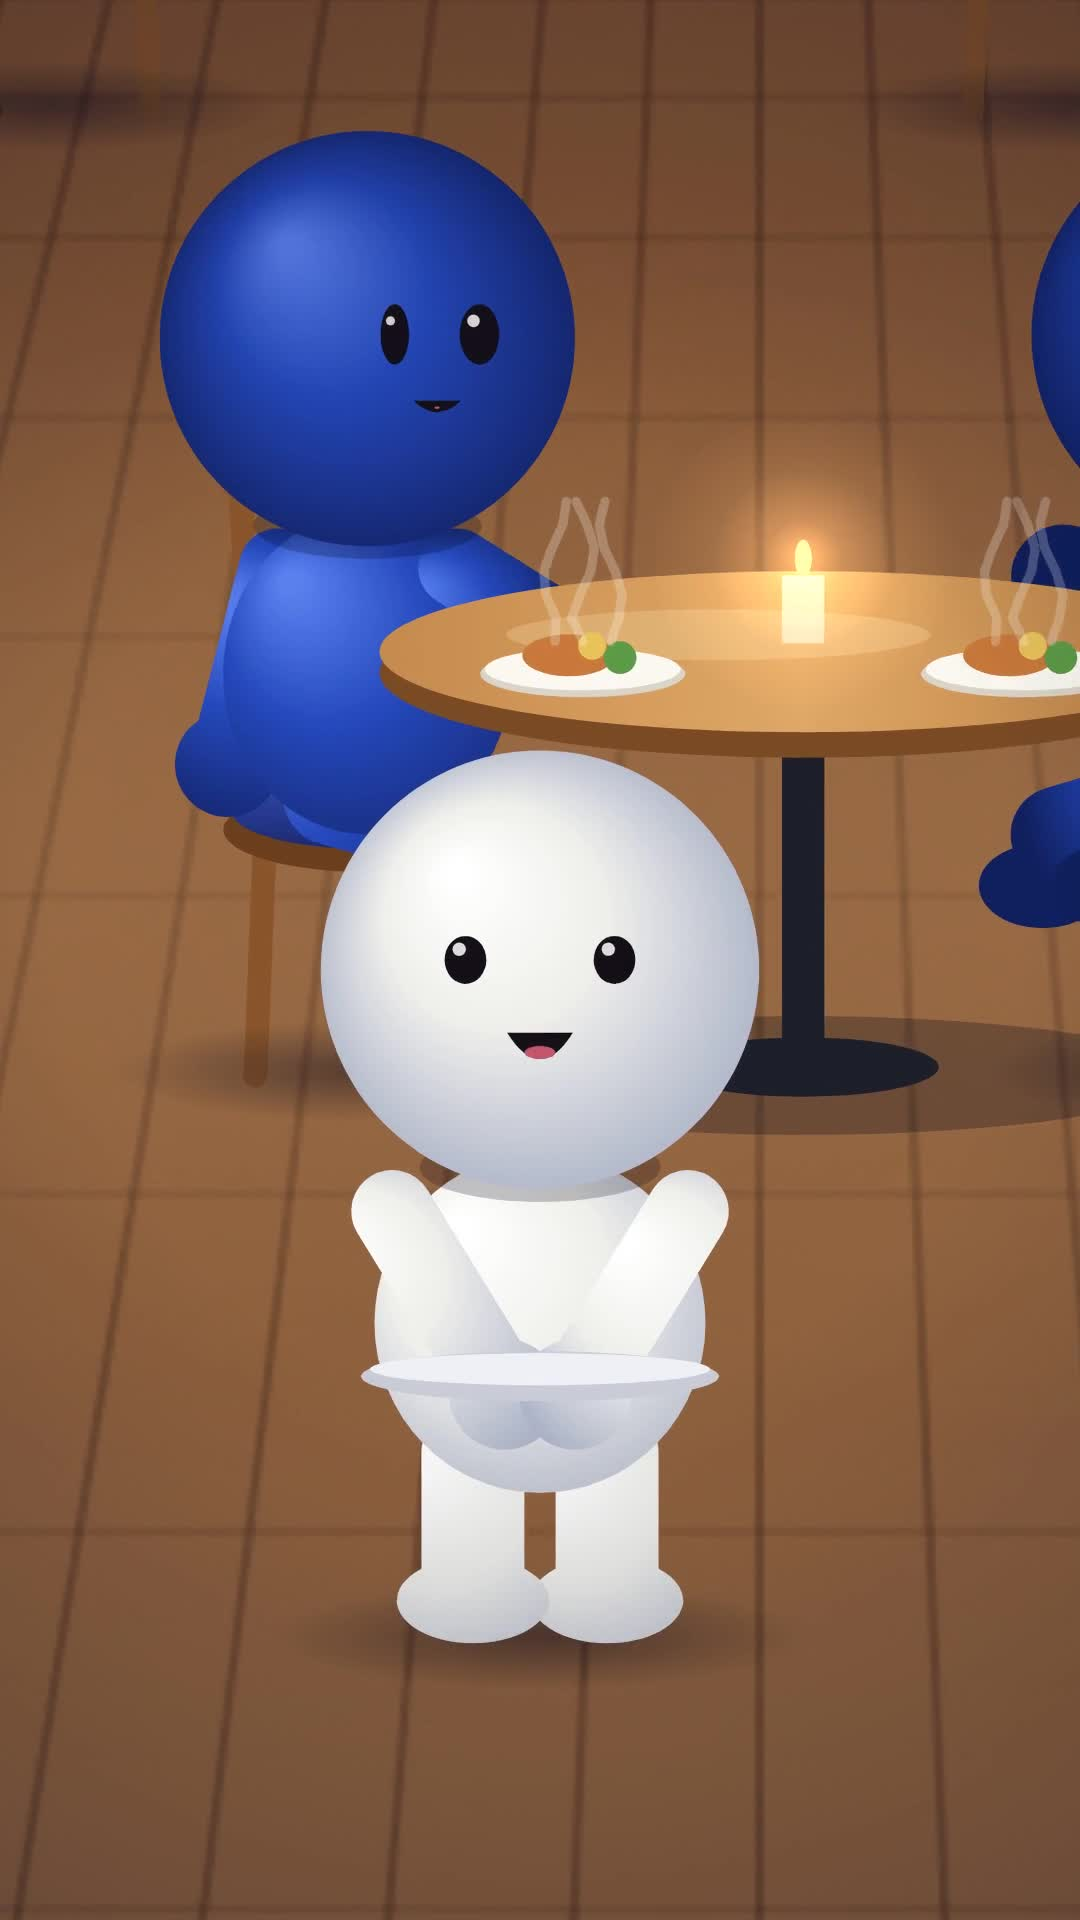
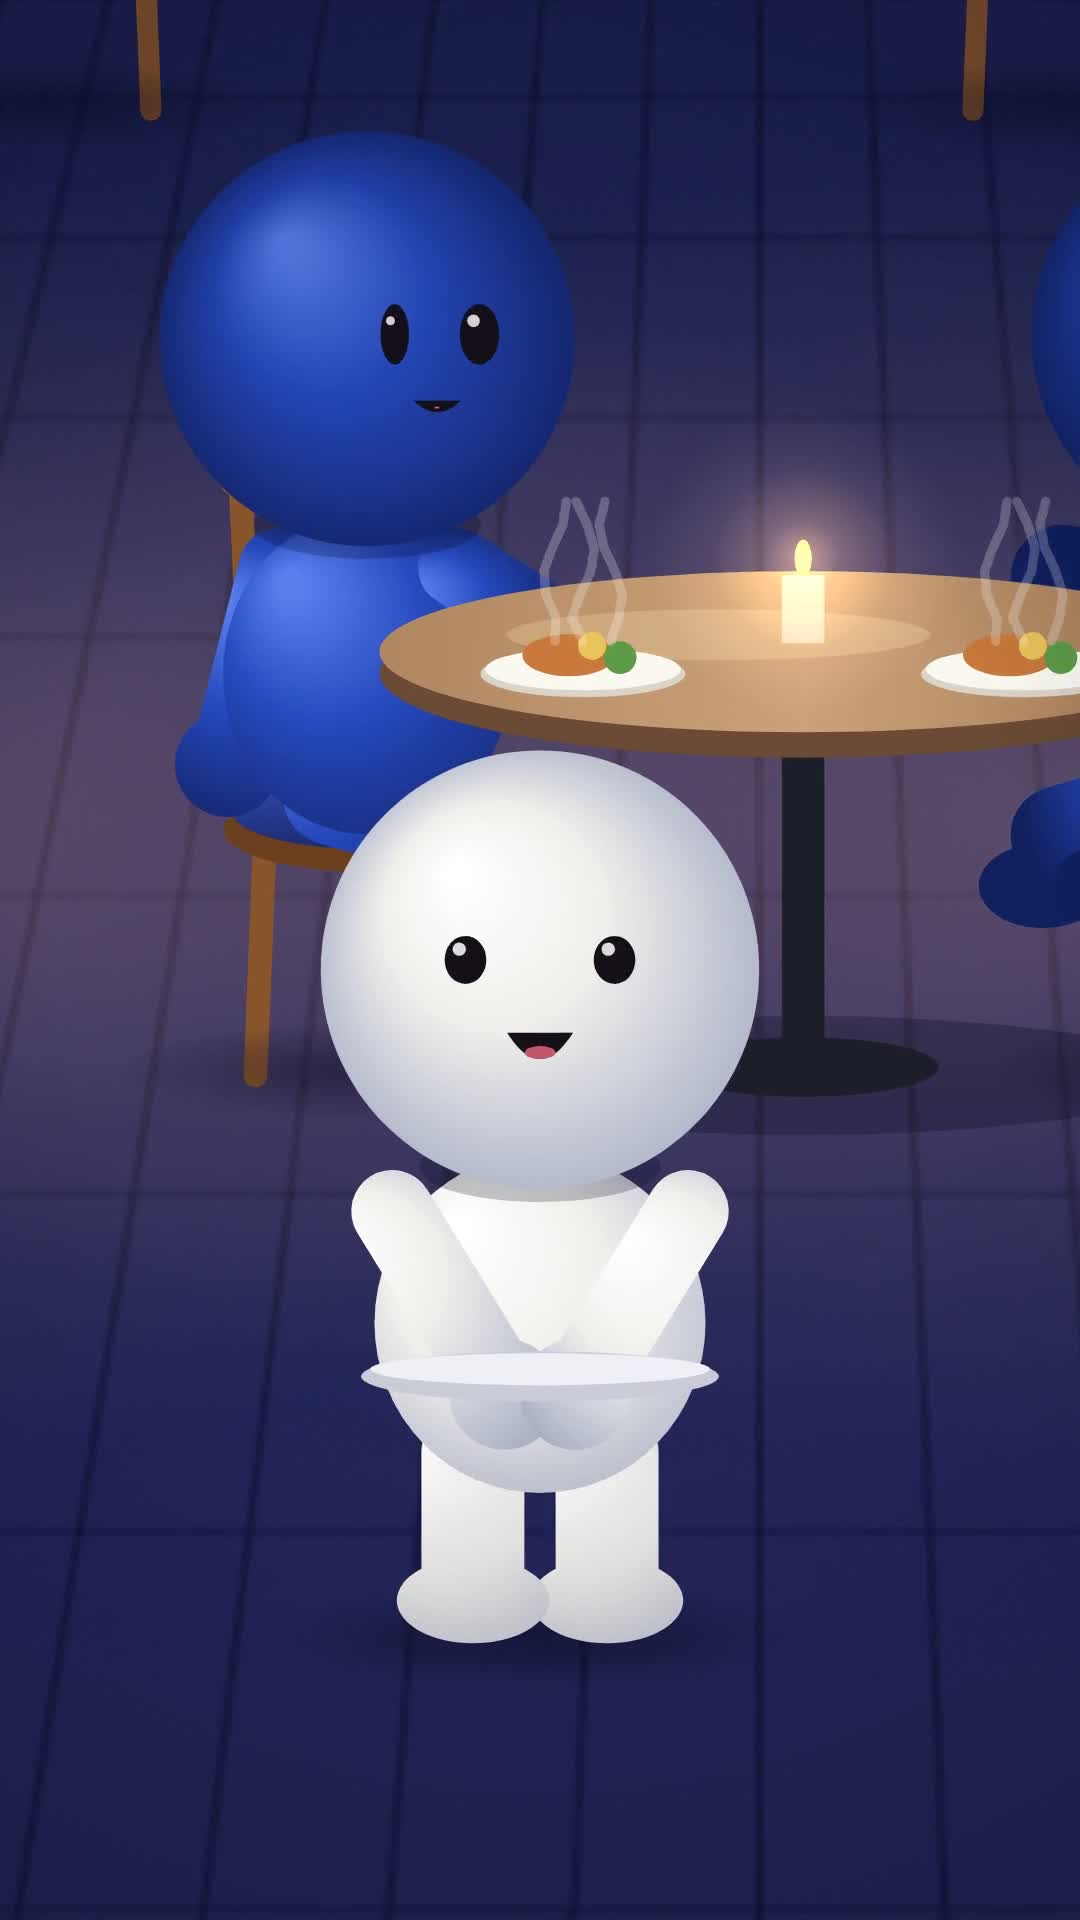
60-30-10 colour pass (navy / cream-wood / gold) and spring-based motion
Claude-Session: https://claude.ai/code/session_01VFoCBkEqq52BD2AArbSPEf

diff --git a/restaurant-nobody-entered/sets.js b/restaurant-nobody-entered/sets.js
@@ -103,13 +103,13 @@ export function interiorWall(lookName) {
   x.fillRect(w.x0, w.spring - 6, w.x1 - w.x0, 12);
   // floor: honey planks in perspective
   const vp = [750, 760];
-  x.fillStyle = lin(x, 0, IN.floor, 0, IN.H, [[0, '#a8682f'], [.5, '#c88a48'], [1, '#d99c58']]); x.fillRect(0, IN.floor, IN.W, IN.H - IN.floor);
-  for (let i = -30; i <= 30; i++) { const bx = 750 + i * 70; x.strokeStyle = 'rgba(70,35,10,.35)'; x.lineWidth = 2; x.beginPath(); x.moveTo(vp[0] + (bx - vp[0]) * (IN.floor - vp[1]) / (IN.H - vp[1]), IN.floor); x.lineTo(bx, IN.H); x.stroke(); }
-  for (let k = 0, yy = IN.floor + 14; yy < IN.H; k++, yy += 14 + k * 9) { x.strokeStyle = 'rgba(70,35,10,.18)'; x.lineWidth = 1.5; x.beginPath(); x.moveTo(0, yy); x.lineTo(IN.W, yy); x.stroke(); }
-  for (const [px] of IN.pendants) { x.fillStyle = rad(x, px, 1560, 10, 420, [[0, `rgba(255,190,110,${.32 * L.lampK})`], [1, 'rgba(255,190,110,0)']]); x.save(); x.translate(px, 1560); x.scale(1, .35); x.translate(-px, -1560); x.fillRect(px - 450, 1100, 900, 900); x.restore(); }
+  x.fillStyle = lin(x, 0, IN.floor, 0, IN.H, [[0, '#24285a'], [.5, '#2e3066'], [1, '#383870']]); x.fillRect(0, IN.floor, IN.W, IN.H - IN.floor);
+  for (let i = -30; i <= 30; i++) { const bx = 750 + i * 70; x.strokeStyle = 'rgba(8,10,40,.45)'; x.lineWidth = 2; x.beginPath(); x.moveTo(vp[0] + (bx - vp[0]) * (IN.floor - vp[1]) / (IN.H - vp[1]), IN.floor); x.lineTo(bx, IN.H); x.stroke(); }
+  for (let k = 0, yy = IN.floor + 14; yy < IN.H; k++, yy += 14 + k * 9) { x.strokeStyle = 'rgba(8,10,40,.3)'; x.lineWidth = 1.5; x.beginPath(); x.moveTo(0, yy); x.lineTo(IN.W, yy); x.stroke(); }
+  x.globalCompositeOperation = 'lighter'; for (const [px] of IN.pendants) { x.fillStyle = rad(x, px, 1560, 10, 440, [[0, `rgba(255,170,90,${.34 * L.lampK})`], [.6, `rgba(255,170,90,${.1 * L.lampK})`], [1, 'rgba(255,170,90,0)']]); x.save(); x.translate(px, 1560); x.scale(1, .35); x.translate(-px, -1560); x.fillRect(px - 450, 1100, 900, 900); x.restore(); } x.globalCompositeOperation = 'source-over';
   // plants
   const plant = (px, py, s) => { x.fillStyle = lin(x, 0, py - 70 * s, 0, py, [[0, '#2f3f86'], [1, '#1c2658']]); x.beginPath(); x.moveTo(px - 45 * s, py - 80 * s); x.lineTo(px + 45 * s, py - 80 * s); x.lineTo(px + 35 * s, py); x.lineTo(px - 35 * s, py); x.fill();
-    for (let i = 0; i < 14; i++) { const a = -Math.PI / 2 + (R() - .5) * 2.4, l = (90 + R() * 90) * s; x.fillStyle = ['#3f7f3a', '#5b9a45', '#2f6a33'][i % 3]; x.save(); x.translate(px, py - 80 * s); x.rotate(a + Math.PI / 2); x.beginPath(); x.ellipse(0, -l / 2, 16 * s, l / 2, 0, 0, 7); x.fill(); x.restore(); } };
+    for (let i = 0; i < 14; i++) { const a = -Math.PI / 2 + (R() - .5) * 2.4, l = (90 + R() * 90) * s; x.fillStyle = ['#2e5e5a', '#3d7068', '#244a4c'][i % 3]; x.save(); x.translate(px, py - 80 * s); x.rotate(a + Math.PI / 2); x.beginPath(); x.ellipse(0, -l / 2, 16 * s, l / 2, 0, 0, 7); x.fill(); x.restore(); } };
   plant(60, IN.floor + 40, 1.0);
 
   // cool tint for the morning, deeper navy at night
@@ -125,7 +125,7 @@ export function interiorWall(lookName) {
 export function interiorOutside(lookName) {
   const L = LOOK[lookName], R = mulberry(9), [c, x] = cnv(IN.W, IN.H);
   x.fillStyle = lin(x, 0, 200, 0, 1240, [[0, L.sky[0]], [.6, L.sky[1]], [1, L.sky[2]]]); x.fillRect(0, 0, IN.W, IN.H);
-  const cols = ['#d9c39a', '#c9a465', '#d7b3a0', '#cfc4a6'];
+  const cols = ['#3d4a88', '#34407a', '#46529a', '#2f3a72'];
   for (let bx = -40, i = 0; bx < IN.W; i++) { const bw = 240 + R() * 140, top = 470 + R() * 160, col = cols[i % 4];
     x.fillStyle = col; x.fillRect(bx, top, bw, 1240 - top); x.fillStyle = `rgba(10,15,60,${.25 + .45 * L.night})`; x.fillRect(bx, top, bw, 1240 - top);
     windowsGrid(x, R, bx + 10, top + 30, bw - 20, 1180 - top, 3, 4, col, L.outLit); x.fillStyle = `rgba(10,15,60,${.15 * L.night})`; x.fillRect(bx, top, bw, 1240 - top);
@@ -170,7 +170,7 @@ export function exteriorStreet(lookName) {
     windowsGrid(x, RR, x0 + 20, top + 50, x1 - x0 - 40, 1140 - top - 60, cols, 4, col, L.outLit);
     x.fillStyle = 'rgba(0,0,0,.18)'; x.fillRect(x0, 1140, x1 - x0, EX.ground - 1140);
     for (let i = 0; i < cols; i++) { const sx = x0 + 30 + i * (x1 - x0 - 60) / cols; x.fillStyle = '#1a2350'; x.fillRect(sx + 20, 1300, (x1 - x0 - 60) / cols - 40, 300); x.fillStyle = `rgba(255,190,110,${RR() < .5 ? .5 * L.outLit : 0})`; x.fillRect(sx + 26, 1306, (x1 - x0 - 60) / cols - 52, 288); } };
-  bld(-300, 560, 380, '#d6ad68', 3, 31); bld(1320, 2100, 270, '#dcb6a0', 4, 37);
+  bld(-300, 560, 380, '#4a5694', 3, 31); bld(1320, 2100, 270, '#3e4a8a', 4, 37);
   // the restaurant building
   x.fillStyle = lin(x, 0, 300, 0, EX.ground, [[0, '#efdcb0'], [1, '#e2c995']]); x.fillRect(F.x0, 300, F.x1 - F.x0, EX.ground - 300);
   x.fillStyle = '#f7ecd2'; x.fillRect(F.x0 - 16, 286, F.x1 - F.x0 + 32, 26); x.fillRect(F.x0 - 10, 1120, F.x1 - F.x0 + 20, 22);
@@ -191,7 +191,7 @@ export function exteriorStreet(lookName) {
   x.fillStyle = 'rgba(0,0,20,.25)'; x.fillRect(ax0, ay1 + 18, ax1 - ax0, 30);
   // potted trees
   const tree = (tx) => { x.fillStyle = '#26347a'; x.beginPath(); x.moveTo(tx - 34, 1600); x.lineTo(tx + 34, 1600); x.lineTo(tx + 26, 1666); x.lineTo(tx - 26, 1666); x.fill(); x.fillStyle = '#5a4330'; x.fillRect(tx - 4, 1440, 8, 160);
-    for (let i = 0; i < 16; i++) { x.fillStyle = ['#3f6f3a', '#57894a', '#6e9a4f'][i % 3]; x.beginPath(); x.arc(tx + (R() - .5) * 90, 1420 + (R() - .5) * 90, 26 + R() * 16, 0, 7); x.fill(); } };
+    for (let i = 0; i < 16; i++) { x.fillStyle = ['#2e5e5a', '#3d7068', '#4a7d72'][i % 3]; x.beginPath(); x.arc(tx + (R() - .5) * 90, 1420 + (R() - .5) * 90, 26 + R() * 16, 0, 7); x.fill(); } };
   tree(588); tree(1318);
   // the sign above the awning
   { const sx0 = 640, sx1 = 1240, sy0 = 985, sy1 = 1105;
@@ -206,7 +206,7 @@ export function exteriorStreet(lookName) {
   // lanterns by the door
   for (const [lx, ly] of EX.lanterns) { x.fillStyle = '#151826'; x.fillRect(lx - 3, ly - 50, 6, 20); x.fillRect(lx - 20, ly - 34, 40, 8); x.fillStyle = '#ffd796'; x.fillRect(lx - 14, ly - 26, 28, 40); x.fillStyle = '#151826'; x.fillRect(lx - 16, ly + 14, 32, 6); }
   // pavement, kerb, road
-  x.fillStyle = lin(x, 0, EX.ground, 0, 1790, [[0, '#6e7496'], [1, '#5d6386']]); x.fillRect(-300, EX.ground, 2400, 130);
+  x.fillStyle = lin(x, 0, EX.ground, 0, 1790, [[0, '#3c4272'], [1, '#323864']]); x.fillRect(-300, EX.ground, 2400, 130);
   for (let px = -300; px < 2100; px += 120) { x.strokeStyle = 'rgba(20,25,60,.35)'; x.lineWidth = 2; x.beginPath(); x.moveTo(px, EX.ground); x.lineTo(px - 20, 1790); x.stroke(); }
   x.fillStyle = '#9095b0'; x.fillRect(-300, 1784, 2400, 16); x.fillStyle = '#2b3052'; x.fillRect(-300, 1800, 2400, 700);
   cobbles(x, R, 1806, 2500, -300, 2100, L.night > .5);
@@ -237,7 +237,7 @@ export function homeSet(lookName) {
   x.fillStyle = lin(x, 0, 0, 0, HOME.floor, [[0, night ? '#151d4a' : '#2a3a7a'], [1, night ? '#24306a' : '#3d4f92']]); x.fillRect(0, 0, 1500, HOME.floor);
   x.fillStyle = 'rgba(255,255,255,.035)'; for (let yy = 40; yy < HOME.floor; yy += 80) for (let xx = (yy / 80 % 2) * 40; xx < 1500; xx += 80) { x.beginPath(); x.arc(xx, yy, 6, 0, 7); x.fill(); }
   x.fillStyle = '#e6d6b2'; x.fillRect(0, HOME.floor - 40, 1500, 40);
-  x.fillStyle = lin(x, 0, HOME.floor, 0, 2500, [[0, '#7a4a24'], [1, '#a8682f']]); x.fillRect(0, HOME.floor, 1500, 1000);
+  x.fillStyle = lin(x, 0, HOME.floor, 0, 2500, [[0, '#24285a'], [1, '#34356c']]); x.fillRect(0, HOME.floor, 1500, 1000);
   for (let yy = HOME.floor + 20, k = 0; yy < 2500; k++, yy += 20 + k * 8) { x.fillStyle = 'rgba(40,20,5,.25)'; x.fillRect(0, yy, 1500, 2); }
   // window with the sky
   x.fillStyle = '#e6d6b2'; x.fillRect(w[0] - 24, w[2] - 24, w[1] - w[0] + 48, w[3] - w[2] + 48);
@@ -276,8 +276,8 @@ export function blanket(x, a, b, sitUp) {   // the blanket over the sleeper (dra
 export const KIT = { counterTop: 1385, board: [630, 810], stove: [1060, 1340], pot: [1200, 1220] };
 export function kitchenSet() {
   const R = mulberry(23), [c, x] = cnv(1500, 2500);
-  x.fillStyle = '#efe9dc'; x.fillRect(0, 0, 1500, 1500);
-  for (let yy = 0; yy < 1500; yy += 60) for (let xx = (yy / 60 % 2) * 30; xx < 1500; xx += 60) { x.strokeStyle = 'rgba(120,130,170,.25)'; x.lineWidth = 2; x.strokeRect(xx, yy, 60, 60); if (R() < .08) { x.fillStyle = 'rgba(40,70,170,.35)'; x.fillRect(xx + 4, yy + 4, 52, 52); } }
+  x.fillStyle = '#26326e'; x.fillRect(0, 0, 1500, 1500);
+  for (let yy = 0; yy < 1500; yy += 60) for (let xx = (yy / 60 % 2) * 30; xx < 1500; xx += 60) { x.strokeStyle = 'rgba(230,220,195,.22)'; x.lineWidth = 2; x.strokeRect(xx, yy, 60, 60); if (R() < .06) { x.fillStyle = 'rgba(232,190,110,.35)'; x.fillRect(xx + 4, yy + 4, 52, 52); } }
   x.fillStyle = lin(x, 0, 0, 0, 1500, [[0, 'rgba(255,190,110,.0)'], [1, 'rgba(255,190,110,.18)']]); x.fillRect(0, 0, 1500, 1500);
   // shelves with jars and pans
   for (const sy of [760, 980]) { x.fillStyle = '#6b4526'; x.fillRect(120, sy, 760, 18);
@@ -287,6 +287,6 @@ export function kitchenSet() {
   x.fillStyle = '#2a2a33'; x.fillRect(1050, 1240, 300, 30);
   x.fillStyle = lin(x, 1120, 0, 1280, 0, [[0, '#6a7080'], [.5, '#b8bdc8'], [1, '#5a6070']]); x.beginPath(); x.roundRect(1120, 1140, 160, 100, 10); x.fill(); x.fillStyle = '#4a5060'; x.fillRect(1110, 1132, 180, 14);
   x.fillStyle = 'rgba(255,120,40,.6)'; for (let i = 0; i < 5; i++) { x.beginPath(); x.ellipse(1140 + i * 30, 1238, 10, 6, 0, 0, 7); x.fill(); }
-  x.fillStyle = lin(x, 0, 1500, 0, 2500, [[0, '#7a4a24'], [1, '#a8682f']]); x.fillRect(0, 1500, 1500, 1000);
+  x.fillStyle = lin(x, 0, 1500, 0, 2500, [[0, '#24285a'], [1, '#34356c']]); x.fillRect(0, 1500, 1500, 1000);
   return c;
 }

diff --git a/restaurant-nobody-entered/story.js b/restaurant-nobody-entered/story.js
@@ -40,6 +40,12 @@ const handleIn = op => [lerp(390, 390 - 240 * Math.cos(op * 1.3), .85), 1250];
 const handleEx = op => [lerp(640, 640 + 170 * Math.cos(op * 1.25), .86), 1590];
 
 const V = keys => track(keys);
+// a spring like Motion's { type: 'spring', visualDuration, bounce }: 0 → 1 over time τ, overshooting by 'bounce'
+export function sp(tau, d = .4, b = .2) {
+  if (tau <= 0) return 0; const z = Math.max(.05, 1 - b);
+  if (z >= .999) { const w = 4.7 / d; return 1 - Math.exp(-w * tau) * (1 + w * tau); }
+  const wd = Math.PI / d, w0 = wd / Math.sqrt(1 - z * z); return 1 - Math.exp(-z * w0 * tau) * (Math.cos(wd * tau) + z * w0 / wd * Math.sin(wd * tau));
+}
 function blinkAt(t, seed) { const per = 2.6 + hash(seed) * 1.8, ph = (t + seed * 3.7) % per; return ph < .14 ? Math.sin(ph / .14 * Math.PI) : 0; }
 const idle = (t, seed, o = {}) => ({ bob: Math.sin(t * 2.2 + seed) * .006, blink: blinkAt(t, seed), ...o });
 // walk along a path of points at an even pace (eased at both ends)
@@ -49,7 +55,8 @@ function route(t, t0, t1, pts, inside = true, stride = 58) {
   let acc = 0, i = 0; while (i < L.length - 1 && acc + L[i] < e) acc += L[i++];
   const k = L[i] ? (e - acc) / L[i] : 1, A = pts[i], B = pts[i + 1], x = lerp(A[0], B[0], clamp(k)), y = lerp(A[1], B[1], clamp(k));
   const dx = B[0] - A[0], dy = B[1] - A[1], d = Math.hypot(dx, dy) || 1;
-  return { x, y, s: inside ? sOf(y) : 1, f: clamp(dx / d * 1.1, -.95, .95), back: dy < -Math.abs(dx) * .7, phi: e / stride * Math.PI, walk: moving ? Math.min(1, Math.sin(u * Math.PI) * 2.2) : 0 };
+  const st = t - t1, settle = st > 0 && st < .5 ? Math.sin(st * 20) * Math.exp(-st * 9) * .07 : 0;
+  return { x, y, s: inside ? sOf(y) : 1, f: clamp(dx / d * 1.1, -.95, .95), back: dy < -Math.abs(dx) * .7, phi: e / stride * Math.PI, walk: moving ? Math.min(1, Math.sin(u * Math.PI) * 2.2) : 0, squash: settle };
 }
 const walk = (t, t0, t1, A, B, inside = true) => route(t, t0, t1, [A, B], inside);
 function diner(t, id, i, skin, seed, mode = 'eat') {
@@ -138,14 +145,15 @@ function day2(t) {
 function doorOpens(t) {
   const [sx, sy, , s] = seatPos('A', 1), turn = ss(seg(t, 22.7, 23.0));
   const ow = { id: 'owner', skin: OW, x: sx, y: sy, s, f: lerp(-.75, -.95, turn), sit: 1, ...idle(t, 1), sad: 1 - turn, o: turn * (1 - ss(seg(t, 24.6, 25.4))), smile: .4 * ss(seg(t, 25.0, 25.8)), chin: turn < .5 ? 'L' : null, armL: .3, armR: .3, look: turn ? -.2 : .5 };
-  const door = ss(seg(t, 22.6, 23.15)) * (1 - ss(seg(t, 24.5, 25.5)));
+  const door = sp(t - 22.6, .45, .25) * (1 - sp(t - 24.5, .6, .15));
   const g = walk(t, 23.1, 24.3, [262, 1372], [470, 1462]);
   if (t < 23.1) Object.assign(g, { x: 262, y: 1372, s: sOf(1372), f: .1, handR: handleIn(door) });
   if (t >= 24.3) { const ph = seg(t, 24.35, 25.2); g.f = Math.sin(ph * Math.PI * 2) * .6; if (t > 25.2) g.f = lerp(0, .8, ss(seg(t, 25.2, 25.6))); g.back = false; }
   Object.assign(g, { id: 'guest', skin: 'blue1', vis: t > 22.62, ...idle(t, 2), o: .4 * ss(seg(t, 24.3, 24.6)) * (1 - ss(seg(t, 25.3, 25.7))), smile: .4 * ss(seg(t, 25.4, 25.9)) });
   let cam = V([[21, [610, 1262, 1.12]], [22.75, [620, 1265, 1.15]]])(t);
-  if (t >= 22.8 && t < 23.35) cam = V([[22.8, [620, 1265, 1.15]], [22.98, [995, 1290, 3.1]], [23.35, [995, 1292, 3.25]]])(t);    // snap zoom: his face
-  else if (t >= 23.35) cam = V([[23.35, [995, 1292, 3.25]], [23.6, [360, 1262, 1.75]], [26.1, [420, 1272, 1.5]]])(t);            // whip to the door
+  const mix3 = (a, b, k) => [lerp(a[0], b[0], k), lerp(a[1], b[1], k), lerp(a[2], b[2], k)];
+  if (t >= 22.8 && t < 23.35) cam = mix3([620, 1265, 1.15], [995, 1292, 3.15], sp(t - 22.8, .2, .3));                          // snap zoom: his face
+  else if (t >= 23.35) { const w = mix3([995, 1292, 3.15], [360, 1262, 1.75], sp(t - 23.35, .25, .1)); cam = t < 23.9 ? w : V([[23.9, w], [26.1, [420, 1272, 1.5]]])(t); }   // whip to the door
   return { set: 'in', look: 'night', cam, shake: t > 22.75 && t < 22.98 ? (22.98 - t) * 40 : 0, chars: [ow, g], items: [cupItem('A', 1), jarOnA(.08)], door, rain: 1, drops: .6, lamps: .95, plaque: 1, calendar: 2 };
 }
 // —— 6: welcomed like a hundred guests: a handshake, the best seat (he pulls it from behind), a menu ——
@@ -153,7 +161,7 @@ function welcome(t) {
   const [ox, oy, , os] = seatPos('A', 1), [gx, gy, , gs] = seatPos('A', 0), gStart = [470, 1462], meet = [548, 1462], chairBack = [gx - .15 * BASE_H * gs, gy - .7 * BASE_H * gs];
   const pull = 30 * (ss(seg(t, 29.05, 29.45)) - ss(seg(t, 29.95, 30.35))), holdAt = [802, 1372], behind = [930, 1372];
   let ow;
-  if (t < 26.6) { const u = seg(t, 26.1, 26.55); ow = { x: ox, y: oy, s: os, f: -.85, sit: 1 - ss(u), bob: Math.sin(u * Math.PI) * .08, o: 1 - ss(seg(t, 26.2, 26.5)), smile: ss(seg(t, 26.25, 26.55)) }; }
+  if (t < 26.6) { const u = seg(t, 26.18, 26.55), crouch = t < 26.18 ? Math.sin(seg(t, 26.1, 26.18) * Math.PI) * .1 : 0; ow = { x: ox, y: oy, s: os, f: -.85, sit: 1 - sp(t - 26.18, .25, .3), bob: Math.sin(u * Math.PI) * .1, squash: crouch - .06 * Math.sin(u * Math.PI), o: 1 - ss(seg(t, 26.2, 26.5)), smile: ss(seg(t, 26.25, 26.55)) }; }
   else if (t < 27.4) ow = { ...route(t, 26.6, 27.4, [[ox, oy + 32], [700, 1462], meet]), smile: 1 };
   else if (t < 28.35) { const sh = Math.sin((t - 27.4) * Math.PI * 2 / .3) * 7 * (t < 28.2 ? 1 : 0); ow = { x: meet[0], y: meet[1], s: sOf(meet[1]), f: -.75, smile: 1, handL: [510, 1390 + sh], armR: .2 }; }
   else if (t < 29.0) ow = { ...route(t, 28.35, 29.0, [meet, [700, 1452], [705, 1385], holdAt]), smile: 1 };
@@ -188,7 +196,7 @@ function seen(t) {
   const y = { id: 'passer', ...walk(t, 31.5, 33.6, [140, 1722], [1340, 1722], false), skin: 'blue2', ...idle(t, 3) };
   if (t >= 33.6) {
     const wob = Math.sin(seg(t, 33.6, 34.0) * Math.PI * 2) * .05 * (1 - seg(t, 33.6, 34.0));
-    Object.assign(y, { f: lerp(.9, -.7, ss(seg(t, 33.8, 34.3))), lean: wob, o: ss(seg(t, 34.3, 34.5)) * (1 - ss(seg(t, 35.4, 35.8))), smile: .7 * ss(seg(t, 35.5, 36.0)), headDX: -.02 * ss(seg(t, 34.6, 35.4)), bang: t > 34.4 && t < 35.6 ? Math.min(1, (t - 34.4) / .25) : 0 });
+    Object.assign(y, { f: lerp(.9, -.7, ss(seg(t, 33.8, 34.3))), lean: wob, o: ss(seg(t, 34.3, 34.5)) * (1 - ss(seg(t, 35.4, 35.8))), smile: .7 * ss(seg(t, 35.5, 36.0)), headDX: -.02 * ss(seg(t, 34.6, 35.4)), bang: t > 34.4 && t < 35.6 ? Math.max(.01, sp(t - 34.4, .22, .55)) : 0 });
     if (t > 36.0) Object.assign(y, walk(t, 36.0, 36.9, [1340, 1722], [1000, 1722], false));
   }
   let ow, pl;
@@ -202,7 +210,7 @@ function seen(t) {
   return { set: 'ex', look: 'night', cam, chars: [y], inside: [g, ow], inItems: [pl], wet: 1, sign: 1 };
 }
 function entersToo(t) {
-  const op = ss(seg(t, 37.42, 37.8)) * (1 - ss(seg(t, 38.5, 38.9)) * .5), h = handleEx(op);
+  const op = sp(t - 37.42, .35, .25) * (1 - sp(t - 38.5, .4, .15) * .5), h = handleEx(op);
   const y = { id: 'passer', ...walk(t, 36.9, 37.38, [1000, 1722], [800, 1716], false), skin: 'blue2', ...idle(t, 3), smile: .5 };
   if (t >= 37.3 && t < 37.62) Object.assign(y, { f: -.6, handL: h });
   if (t >= 37.62) { const u = seg(t, 37.62, 38.6); Object.assign(y, { x: lerp(800, 730, u), y: lerp(1716, 1668, u), s: lerp(1, .86, u), back: true, f: -.1, alpha: 1 - ss(seg(t, 38.15, 38.6)), phi: u * 6, walk: u > 0 && u < 1 ? 1 : 0 }); }
@@ -212,7 +220,7 @@ function entersToo(t) {
 function andMore(t) {
   let door = 0;
   const enter = (id, t0, t1, from, sk, seed) => { const p = { id, ...walk(t, t0, t1, from, [800, 1716], false), skin: sk, ...idle(t, seed), smile: .45 };
-    const op = ss(seg(t, t1 - .02, t1 + .3)) * (1 - ss(seg(t, t1 + .8, t1 + 1.2))); door = Math.max(door, op);
+    const op = sp(t - t1 + .02, .3, .25) * (1 - sp(t - t1 - .8, .4, .1)); door = Math.max(door, op);
     if (t >= t1 - .08 && t < t1 + .2) Object.assign(p, { f: -.6, handL: handleEx(op) });
     if (t >= t1 + .2) { const u = seg(t, t1 + .2, t1 + 1.0); Object.assign(p, { x: lerp(800, 730, u), y: lerp(1716, 1668, u), s: lerp(1, .86, u), back: true, f: 0, alpha: 1 - ss(seg(t, t1 + .6, t1 + 1.0)), phi: u * 6, walk: u < 1 ? 1 : 0 }); }
     return p; };
@@ -267,7 +275,7 @@ function finale(t) {
     ow.blink = t > 53.5 && t < 54.1 ? 1 : blinkAt(t, 1);
     return { set: 'in', look: 'night', cam: V([[50.85, [702, 1545, 1.6]], [52.4, [700, 1565, 2.0]], [53.4, [700, 1590, 3.2]], [54.6, [700, 1594, 4.6]]])(t), chars: [ow, ...crowd(t, false)], items: [...crowdItems(), plateItem('D', 0), plateItem('D', 1)], lamps: 1.15, plaque: 1, calendar: 2, clock: 20.2 };
   }
-  const op = ss(seg(t, 58.0, 58.4)) * .8 * (1 - ss(seg(t, 58.5, 58.7)) * .3);
+  const op = sp(t - 58.0, .35, .25) * .8;
   const step = ss(seg(t, 58.15, 58.6)) * 120;
   const Q = [870, 990, 1110, 1230].map((x, i) => {
     const p = { id: 'q' + i, skin: ['blue3', 'blue1', 'blue2', 'blue3'][i], x: x - step, y: 1722 + (i % 2) * 10, s: 1, f: -.7, ...idle(t, 30 + i), smile: .5 + .3 * Math.sin(t * 2 + i), look: i === 2 ? -.6 : 0, phi: step / 120 * Math.PI * 1.5, walk: t > 58.15 && t < 58.6 ? 1 : 0 };

diff --git a/restaurant-nobody-entered/main.js b/restaurant-nobody-entered/main.js
@@ -21,8 +21,8 @@ function table(c, x, y, s, lamps, low) {
   const h = BASE_H * s, top = y - .5 * h;
   c.fillStyle = 'rgba(5,6,25,.28)'; c.beginPath(); c.ellipse(x, y, .45 * h, .07 * h, 0, 0, 7); c.fill();
   c.fillStyle = '#1d1f2b'; c.beginPath(); c.ellipse(x, y - .01 * h, .16 * h, .035 * h, 0, 0, 7); c.fill(); c.fillRect(x - .025 * h, top, .05 * h, .5 * h);
-  c.fillStyle = '#7a4a24'; c.beginPath(); c.ellipse(x, top + .025 * h, .5 * h, .1 * h, 0, 0, 7); c.fill();
-  c.fillStyle = lin(c, x - .5 * h, top, x + .5 * h, top, [[0, '#c48a4e'], [.5, '#e0a866'], [1, '#b47a40']]); c.beginPath(); c.ellipse(x, top, .5 * h, .095 * h, 0, 0, 7); c.fill();
+  c.fillStyle = '#6a4a34'; c.beginPath(); c.ellipse(x, top + .025 * h, .5 * h, .1 * h, 0, 0, 7); c.fill();
+  c.fillStyle = lin(c, x - .5 * h, top, x + .5 * h, top, [[0, '#b08660'], [.5, '#cba27a'], [1, '#a07650']]); c.beginPath(); c.ellipse(x, top, .5 * h, .095 * h, 0, 0, 7); c.fill();
   c.fillStyle = 'rgba(255,230,180,.25)'; c.beginPath(); c.ellipse(x - .1 * h, top - .02 * h, .25 * h, .03 * h, 0, 0, 7); c.fill();
   const ch = (low ? .05 : .08) * h; c.fillStyle = 'rgba(240,230,210,.7)'; c.fillRect(x - .025 * h, top - ch - .01 * h, .05 * h, ch);
   if (lamps > .5) { c.fillStyle = '#ffd27a'; c.beginPath(); c.ellipse(x, top - ch - .03 * h, .01 * h, .022 * h, 0, 0, 7); c.fill(); glow(c, x, top - ch - .03 * h, .18 * h, .55); }
